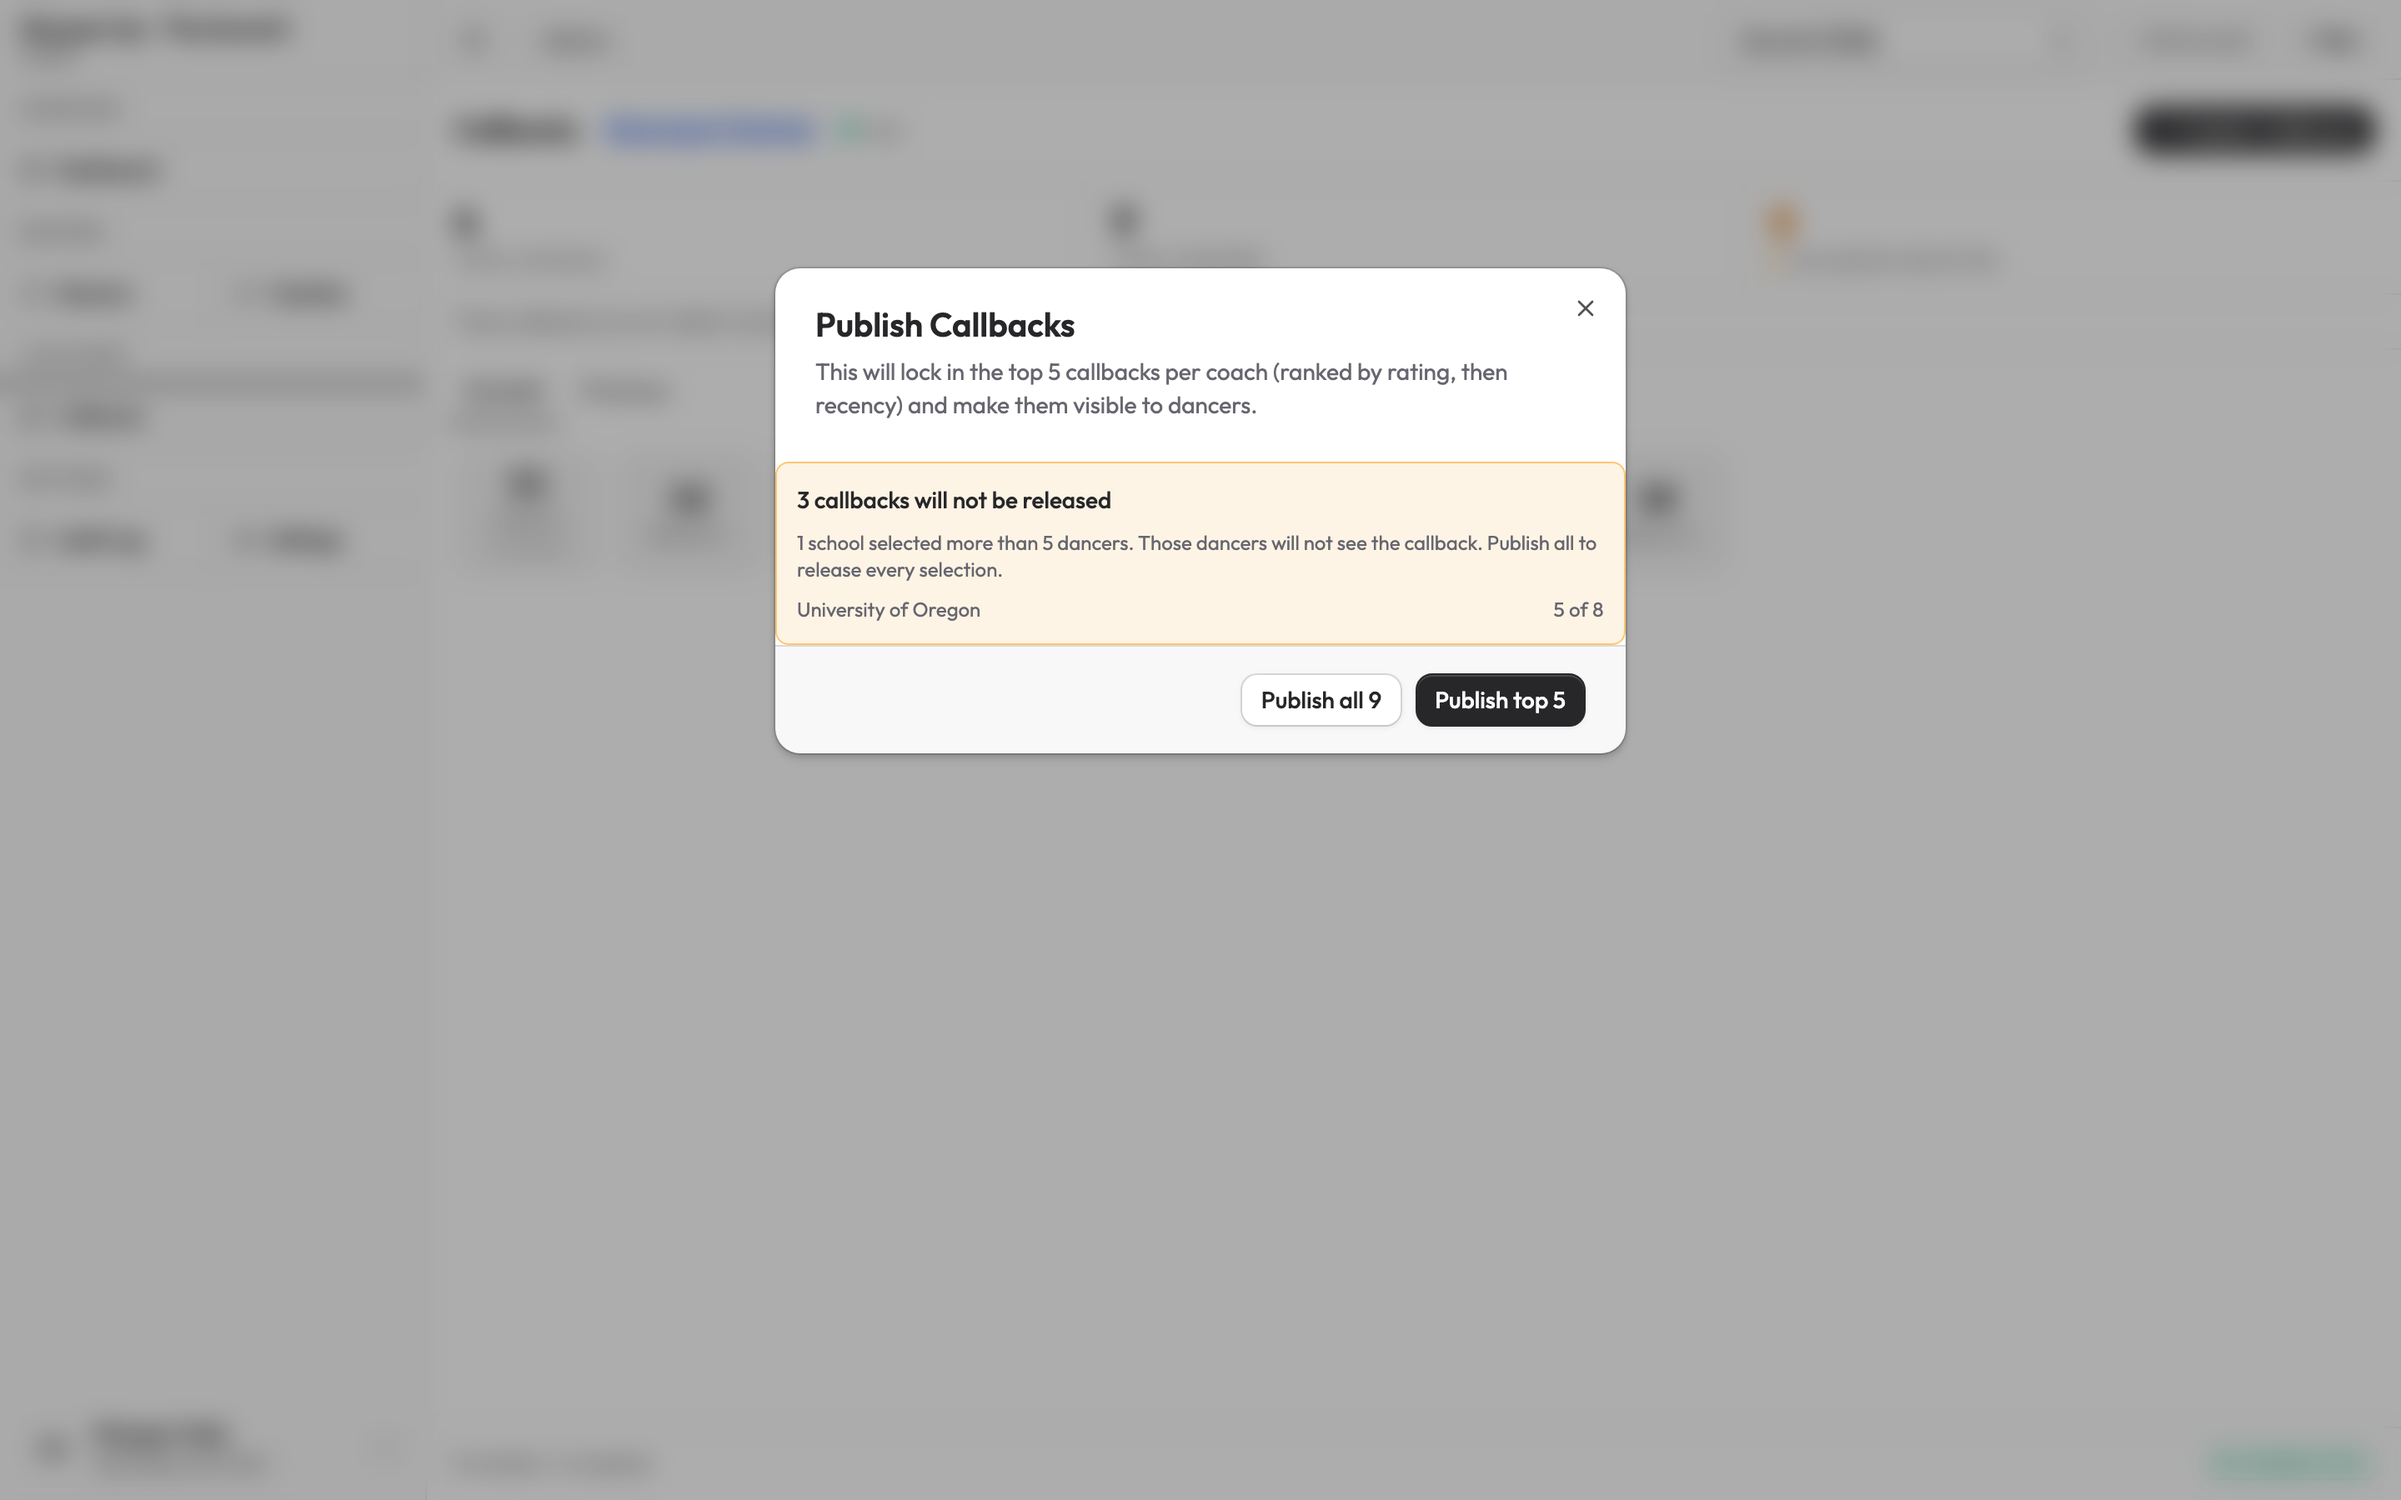
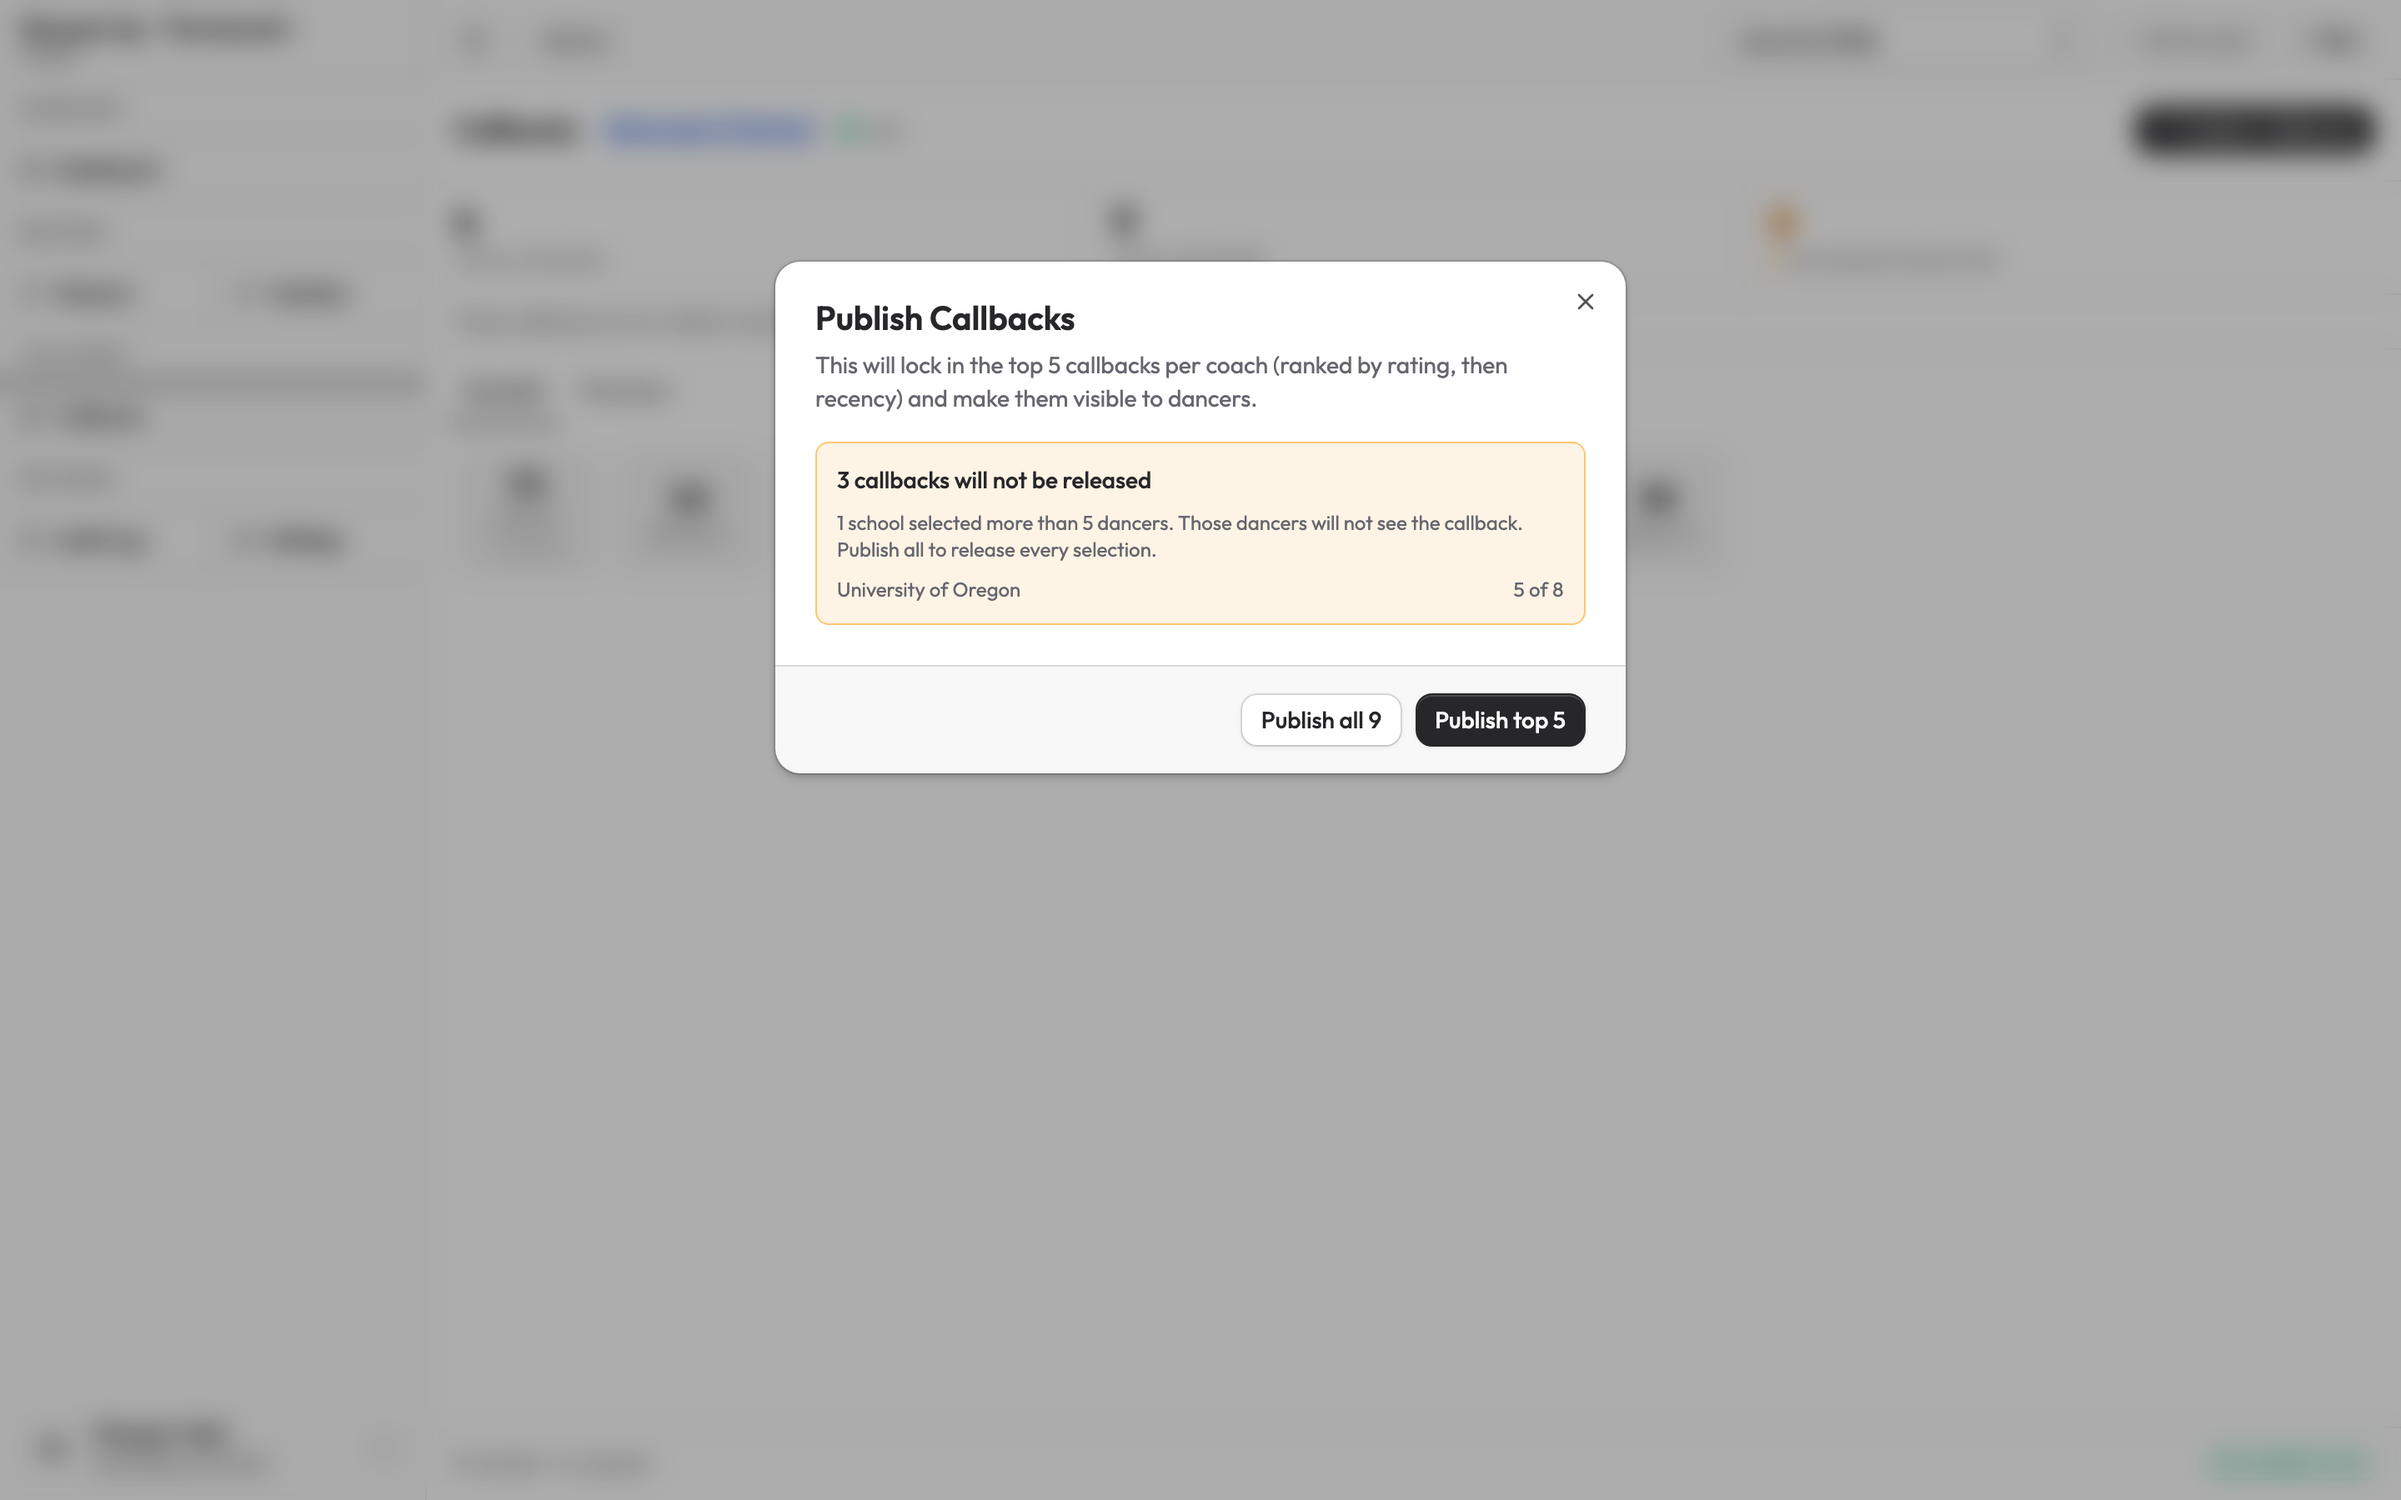
fix(callbacks): pad the publish warning and stop bouncing dancers off Callbacks
The over-cap warning was a bare child of the dialog popup, so it ran edge to
edge while the header and footer sat inside the dialog's 24px gutter. Wrapping
it in DialogPanel — the component that owns dialog body padding — lines it up
with the header and picks up the correct header/footer spacing rules.

The dancer Callbacks route redirected away whenever it could not resolve an
eventId from myRosters, and otherwise passed eventId="" which fails the API's
uuid validation. Both made the page inaccessible for reasons that have nothing
to do with whether the dancer has callbacks. It now leaves eventId undefined so
the backend resolves the active event, prefetches instead of ensuring so a cold
cache cannot fail the navigation, and renders the pre-release state rather than
suspending on data it may not get.

The org-level callbacks feature gate is deliberately kept: the API 404s that
endpoint when the feature is off, so showing the route there would only lead to
an error page.

Changed region(s): [[0.3125, 0.1556, 0.6875, 0.5289]]

diff --git a/apps/frontend/src/routes/_org/o/$orgSlug/_authenticated/admin/callbacks.tsx b/apps/frontend/src/routes/_org/o/$orgSlug/_authenticated/admin/callbacks.tsx
@@ -20,6 +20,7 @@ import {
   DialogDescription,
   DialogFooter,
   DialogHeader,
+  DialogPanel,
   DialogTitle,
   DialogTrigger,
 } from "@/components/ui/dialog";
@@ -472,35 +473,37 @@ function PublishDialog({
         </DialogHeader>
 
         {willDrop > 0 && (
-          <div className="border-warning/50 bg-warning/10 flex flex-col gap-2 rounded-md border p-3">
-            <p className="text-sm font-medium">
-              {willDrop} callback{willDrop === 1 ? "" : "s"} will not be
-              released
-            </p>
-            <p className="text-muted-foreground text-xs">
-              {preview!.coachesOverCap} school
-              {preview!.coachesOverCap === 1 ? "" : "s"} selected more than{" "}
-              {maxCallbacks} dancer{maxCallbacks === 1 ? "" : "s"}. Those
-              dancers will not see the callback. Publish all to release every
-              selection.
-            </p>
-            <ul className="text-muted-foreground flex flex-col gap-0.5 text-xs">
-              {droppedCoaches.map((coach) => (
-                <li
-                  key={coach.coachRosterId}
-                  className="flex justify-between gap-3"
-                >
-                  <span className="truncate">
-                    {coach.organization ||
-                      `${coach.firstName} ${coach.lastName}`}
-                  </span>
-                  <span className="shrink-0 tabular-nums">
-                    {coach.willPublish} of {coach.total}
-                  </span>
-                </li>
-              ))}
-            </ul>
-          </div>
+          <DialogPanel>
+            <div className="border-warning/50 bg-warning/10 flex flex-col gap-2 rounded-md border p-3">
+              <p className="text-sm font-medium">
+                {willDrop} callback{willDrop === 1 ? "" : "s"} will not be
+                released
+              </p>
+              <p className="text-muted-foreground text-xs">
+                {preview!.coachesOverCap} school
+                {preview!.coachesOverCap === 1 ? "" : "s"} selected more than{" "}
+                {maxCallbacks} dancer{maxCallbacks === 1 ? "" : "s"}. Those
+                dancers will not see the callback. Publish all to release every
+                selection.
+              </p>
+              <ul className="text-muted-foreground flex flex-col gap-0.5 text-xs">
+                {droppedCoaches.map((coach) => (
+                  <li
+                    key={coach.coachRosterId}
+                    className="flex justify-between gap-3"
+                  >
+                    <span className="truncate">
+                      {coach.organization ||
+                        `${coach.firstName} ${coach.lastName}`}
+                    </span>
+                    <span className="shrink-0 tabular-nums">
+                      {coach.willPublish} of {coach.total}
+                    </span>
+                  </li>
+                ))}
+              </ul>
+            </div>
+          </DialogPanel>
         )}
 
         <DialogFooter>

diff --git a/apps/frontend/src/routes/_org/o/$orgSlug/_authenticated/dancer/callbacks.tsx b/apps/frontend/src/routes/_org/o/$orgSlug/_authenticated/dancer/callbacks.tsx
@@ -1,4 +1,4 @@
-import { useSuspenseQuery } from "@tanstack/react-query";
+import { useQuery } from "@tanstack/react-query";
 import {
   createFileRoute,
   Link,
@@ -31,13 +31,16 @@ export const Route = createFileRoute(
     const org = await context.queryClient.ensureQueryData(
       orgQueries.org(params.orgSlug),
     );
+    // Having no dancer roster is not a reason to bounce the dancer off her own
+    // Callbacks page. Leave eventId undefined and let the backend resolve the
+    // org's active event.
     const eventId =
       deps.eventId ??
       org.myRosters.find((roster) => roster.type === "dancer")?.eventId;
-    if (!eventId) {
-      throw redirect({ to: "/o/$orgSlug/dancer", params });
-    }
-    await context.queryClient.ensureQueryData(
+    // prefetchQuery, not ensureQueryData: warming the cache must not be able to
+    // fail the navigation. A dancer who is not on an event roster still reaches
+    // her Callbacks page and sees the pre-release state.
+    await context.queryClient.prefetchQuery(
       scoutingQueries.dancerCallbacks(params.orgSlug, eventId),
     );
   },
@@ -50,16 +53,15 @@ function DancerCallbacksPage() {
   });
   const { eventId: searchEventId } = Route.useSearch();
   const { myRosters } = useOrg();
+  // Undefined rather than "" — an empty string fails the API's uuid check,
+  // while undefined lets the backend resolve the active event.
   const eventId =
     searchEventId ??
-    myRosters.find((roster) => roster.type === "dancer")?.eventId ??
-    "";
-  const { data } = useSuspenseQuery(
-    scoutingQueries.dancerCallbacks(orgSlug, eventId),
-  );
+    myRosters.find((roster) => roster.type === "dancer")?.eventId;
+  const { data } = useQuery(scoutingQueries.dancerCallbacks(orgSlug, eventId));
 
-  const schools = data.callbacks;
-  const isReleased = data.publishedShowcaseCount > 0;
+  const schools = data?.callbacks ?? [];
+  const isReleased = (data?.publishedShowcaseCount ?? 0) > 0;
 
   return (
     <div className="flex min-h-0 flex-1 flex-col overflow-y-auto p-4">
